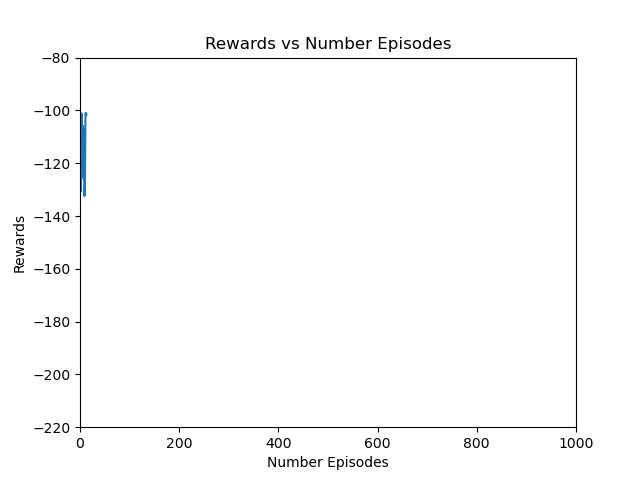
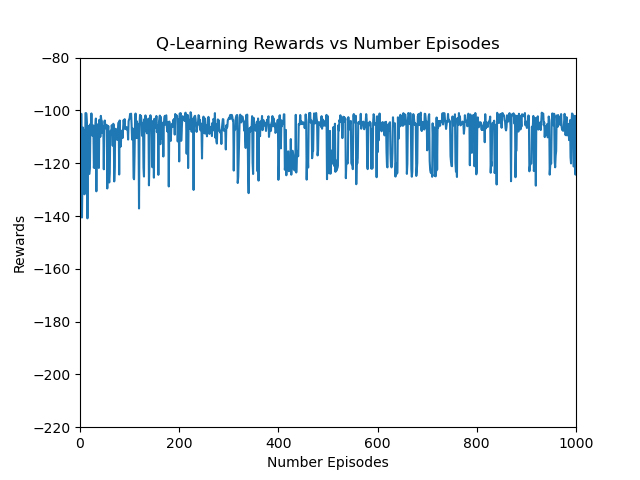
minor change

Changed region(s): [[0.125, 0.2188, 0.9062, 0.4688], [0.25, 0.0625, 0.7812, 0.125]]

diff --git a/src/algorithms/ppo_algorithm/ppo_main.py b/src/algorithms/ppo_algorithm/ppo_main.py
@@ -38,7 +38,7 @@ MAX_NUM_ITER = 1000  # 50000
 RENDER = False
 MIN_BATCH_SIZE = 2048
 LOG_INTERVAL = 1
-SAVE_MODEL_INTERVAL = 2
+SAVE_MODEL_INTERVAL = 100
 CLIP_EPSILON = 0.2
 ENV_NAME = "BipedalWalker-v2"
 OPTIM_EPOCHS = 10
@@ -172,7 +172,7 @@ def ppo_main():
     subplot = plot.add_subplot()
     plt.xlabel("Number Episodes")
     plt.ylabel("Rewards")
-    plt.title("Rewards vs Number Episodes")
+    plt.title("PPO Rewards vs Number Episodes")
     (plotLine,) = subplot.plot(xval, yval)
     subplot.set_xlim([0, MAX_NUM_ITER])
     subplot.set_ylim([-400, 400])

diff --git a/src/algorithms/a2c_algorithm/a2c_main.py b/src/algorithms/a2c_algorithm/a2c_main.py
@@ -38,7 +38,7 @@ MAX_NUM_ITER = 1000  # 50000
 RENDER = False
 MIN_BATCH_SIZE = 2048
 LOG_INTERVAL = 1
-SAVE_MODEL_INTERVAL = 2
+SAVE_MODEL_INTERVAL = 100
 ENV_NAME = "BipedalWalker-v2"
 
 # set datatype
@@ -137,7 +137,7 @@ def a2c_main():
     subplot = plot.add_subplot()
     plt.xlabel("Number Episodes")
     plt.ylabel("Rewards")
-    plt.title("Rewards vs Number Episodes")
+    plt.title("A2C Rewards vs Number Episodes")
     (plotLine,) = subplot.plot(xval, yval)
     subplot.set_xlim([0, MAX_NUM_ITER])
     subplot.set_ylim([-400, 400])

diff --git a/src/algorithms/q_learning_algorithm/q_learning_main.py b/src/algorithms/q_learning_algorithm/q_learning_main.py
@@ -32,7 +32,7 @@ def q_learning_main():
     subplot = plot.add_subplot()
     plt.xlabel("Number Episodes")
     plt.ylabel("Rewards")
-    plt.title("Rewards vs Number Episodes")
+    plt.title("Q-Learning Rewards vs Number Episodes")
     (plotLine,) = subplot.plot(xval, yval)
     subplot.set_xlim([0, num_episodes])
     subplot.set_ylim([-220, -80])

diff --git a/README.md b/README.md
@@ -13,3 +13,7 @@
 ## PPO - Proximal Policy Optimization
 
 ## References
+
+(aia) 
+nguye@DESKTOP-OBHI23I MINGW64 ~/OneDrive/Desktop/Senior/ECE 5984 Reinforcement Learning/rl_value_based_vs_value_policy_based (main)
+$ python src/main.py 
